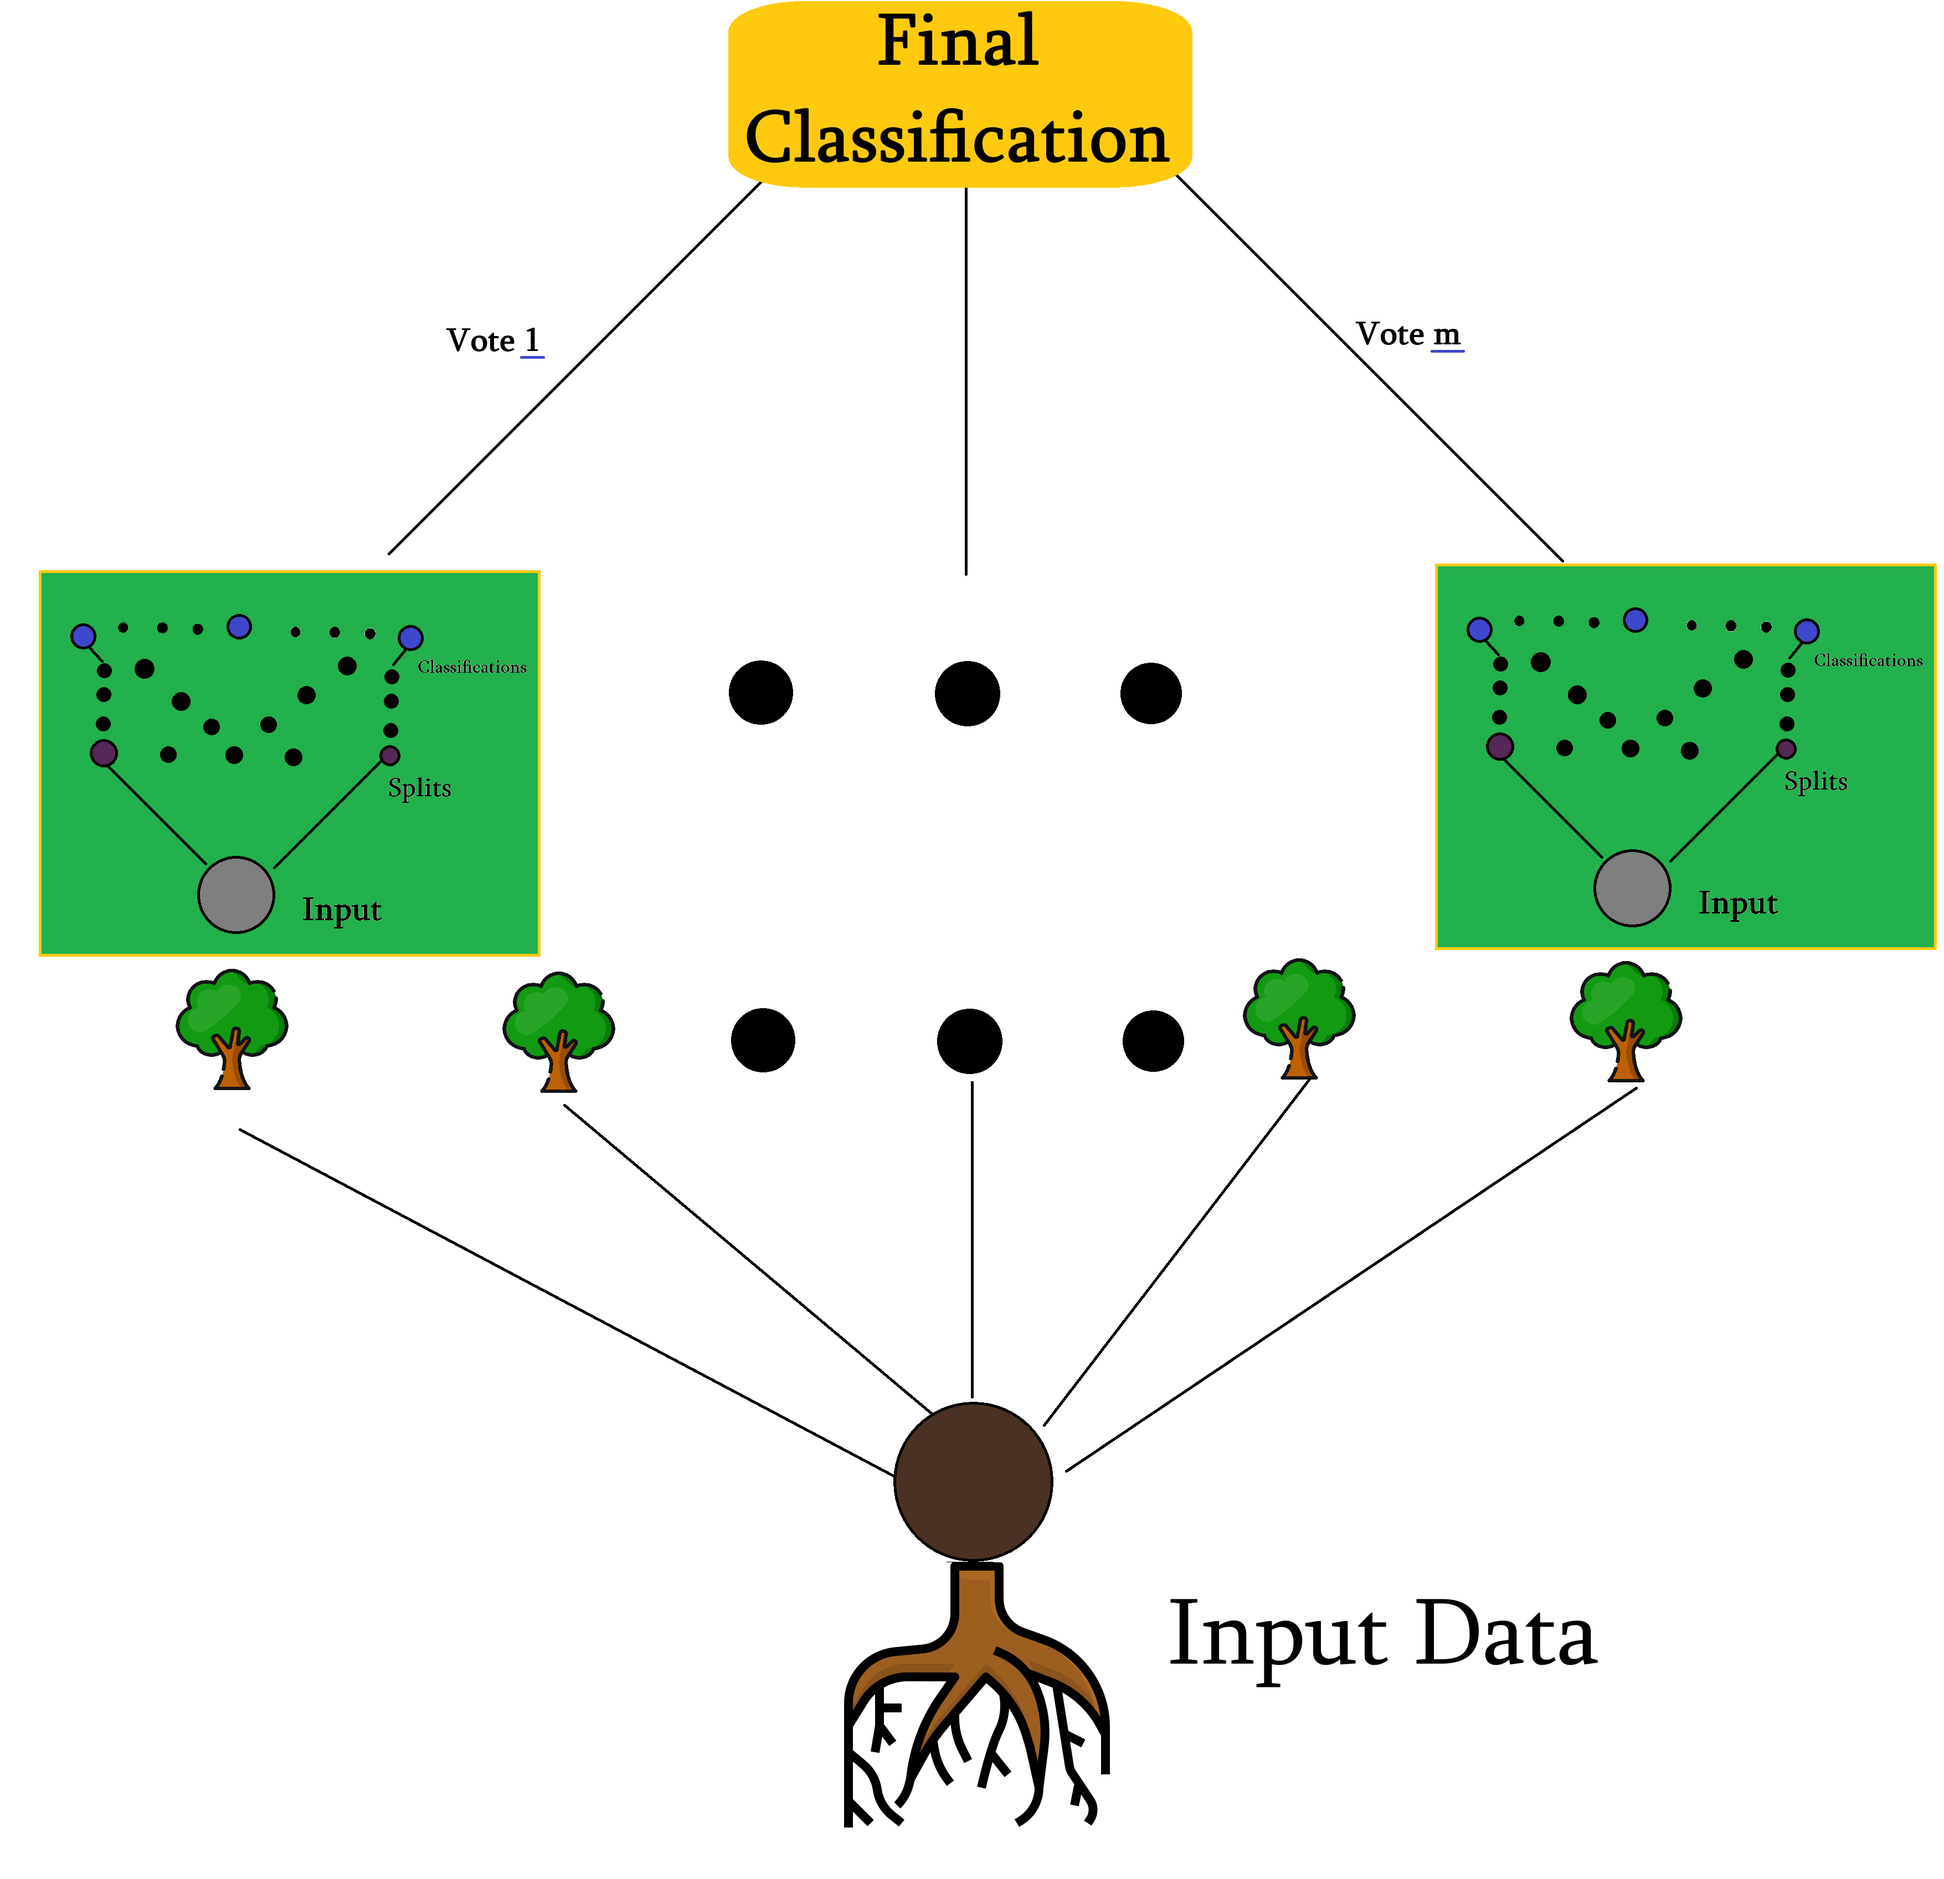
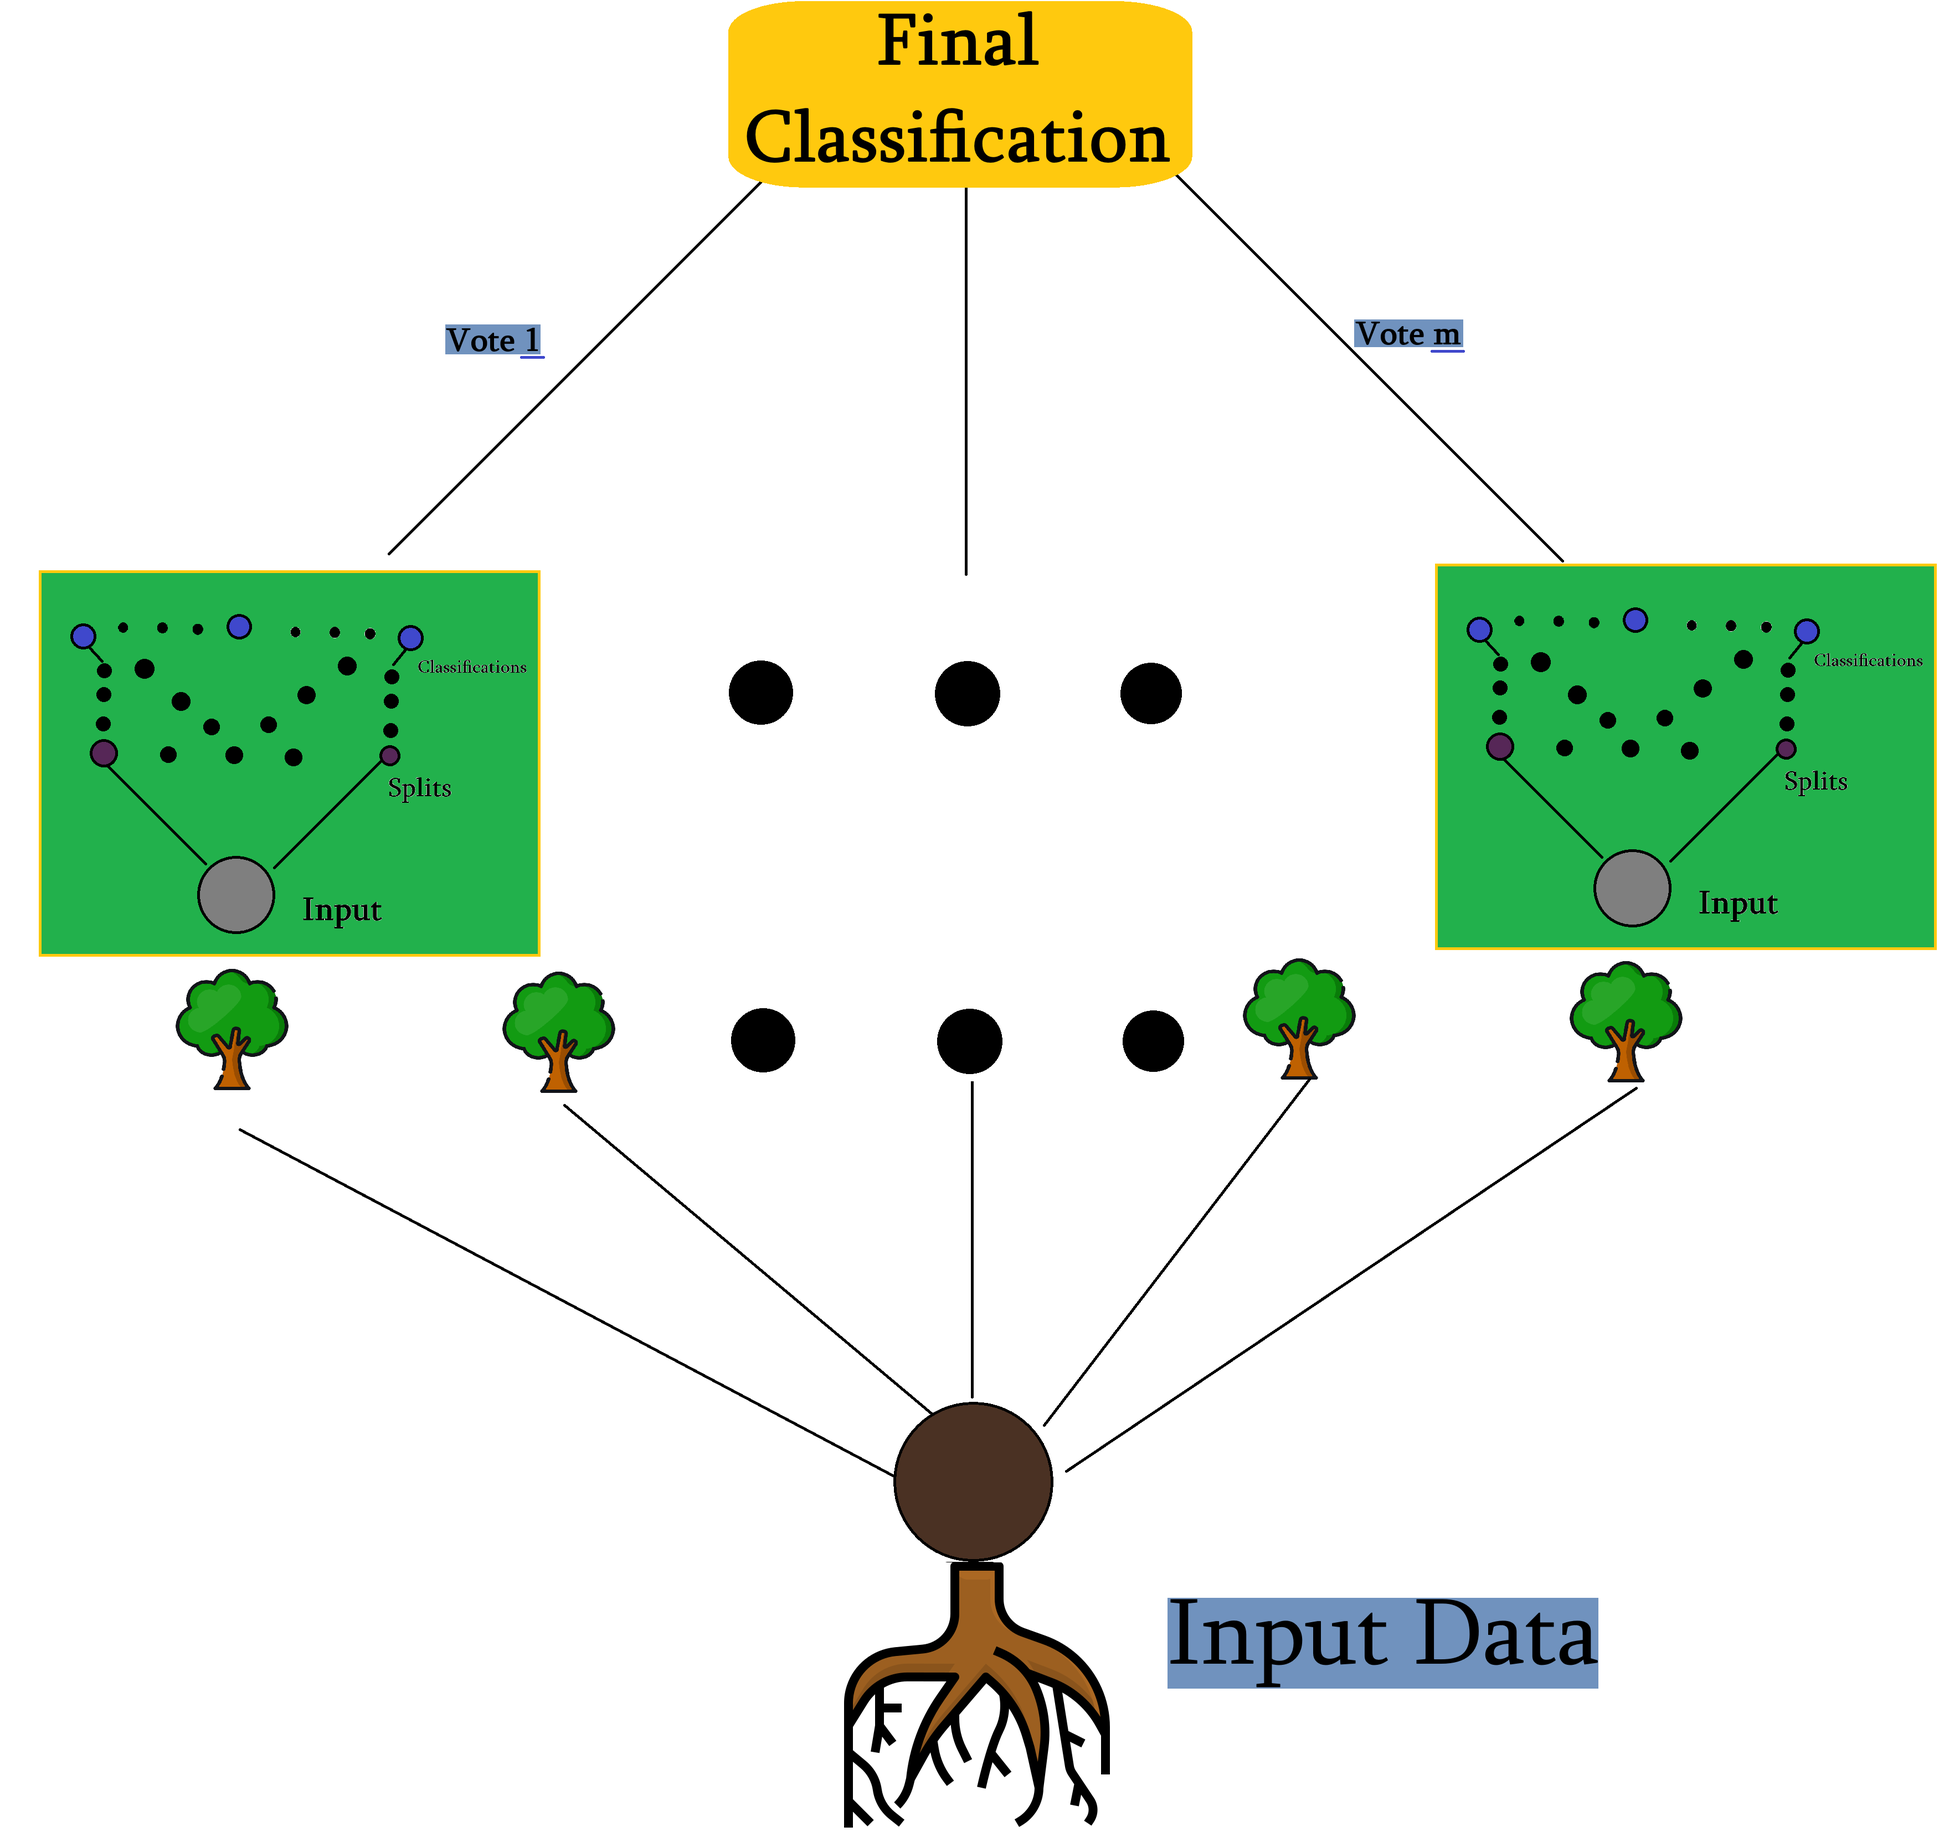
Final Copy of README (Probably). Improved imgs & some writeup details

diff --git a/README.md b/README.md
@@ -44,7 +44,7 @@ $$
 
 which will give us an output between 0 and 1. We interpret this as the probability that the input belongs to the *positive* class (label 1). Then, we set some threshold for our predictions. For example, only if something has a 70% chance of being spam do we actually classify it as spam.
 
-<img src="imgs/sigmoid.png" style="background-color: white;" alt="Sigmoid Function" />
+![Sigmoid Function](imgs/sigmoid.png)
 
 ### Negative Log-Likelihood
 
@@ -491,14 +491,6 @@ Classification/
 ├── tests/
 │   └── test_main.py
 └── imgs/
-    ├── cover.jpg
-    ├── sigmoid.png
-    ├── DT.png
-    ├── GBT.png
-    ├── RF.png
-    ├── SVM.png
-    ├── MCC.png
-    └── kNN.png
 ```
 
 ## Installation & Setup
